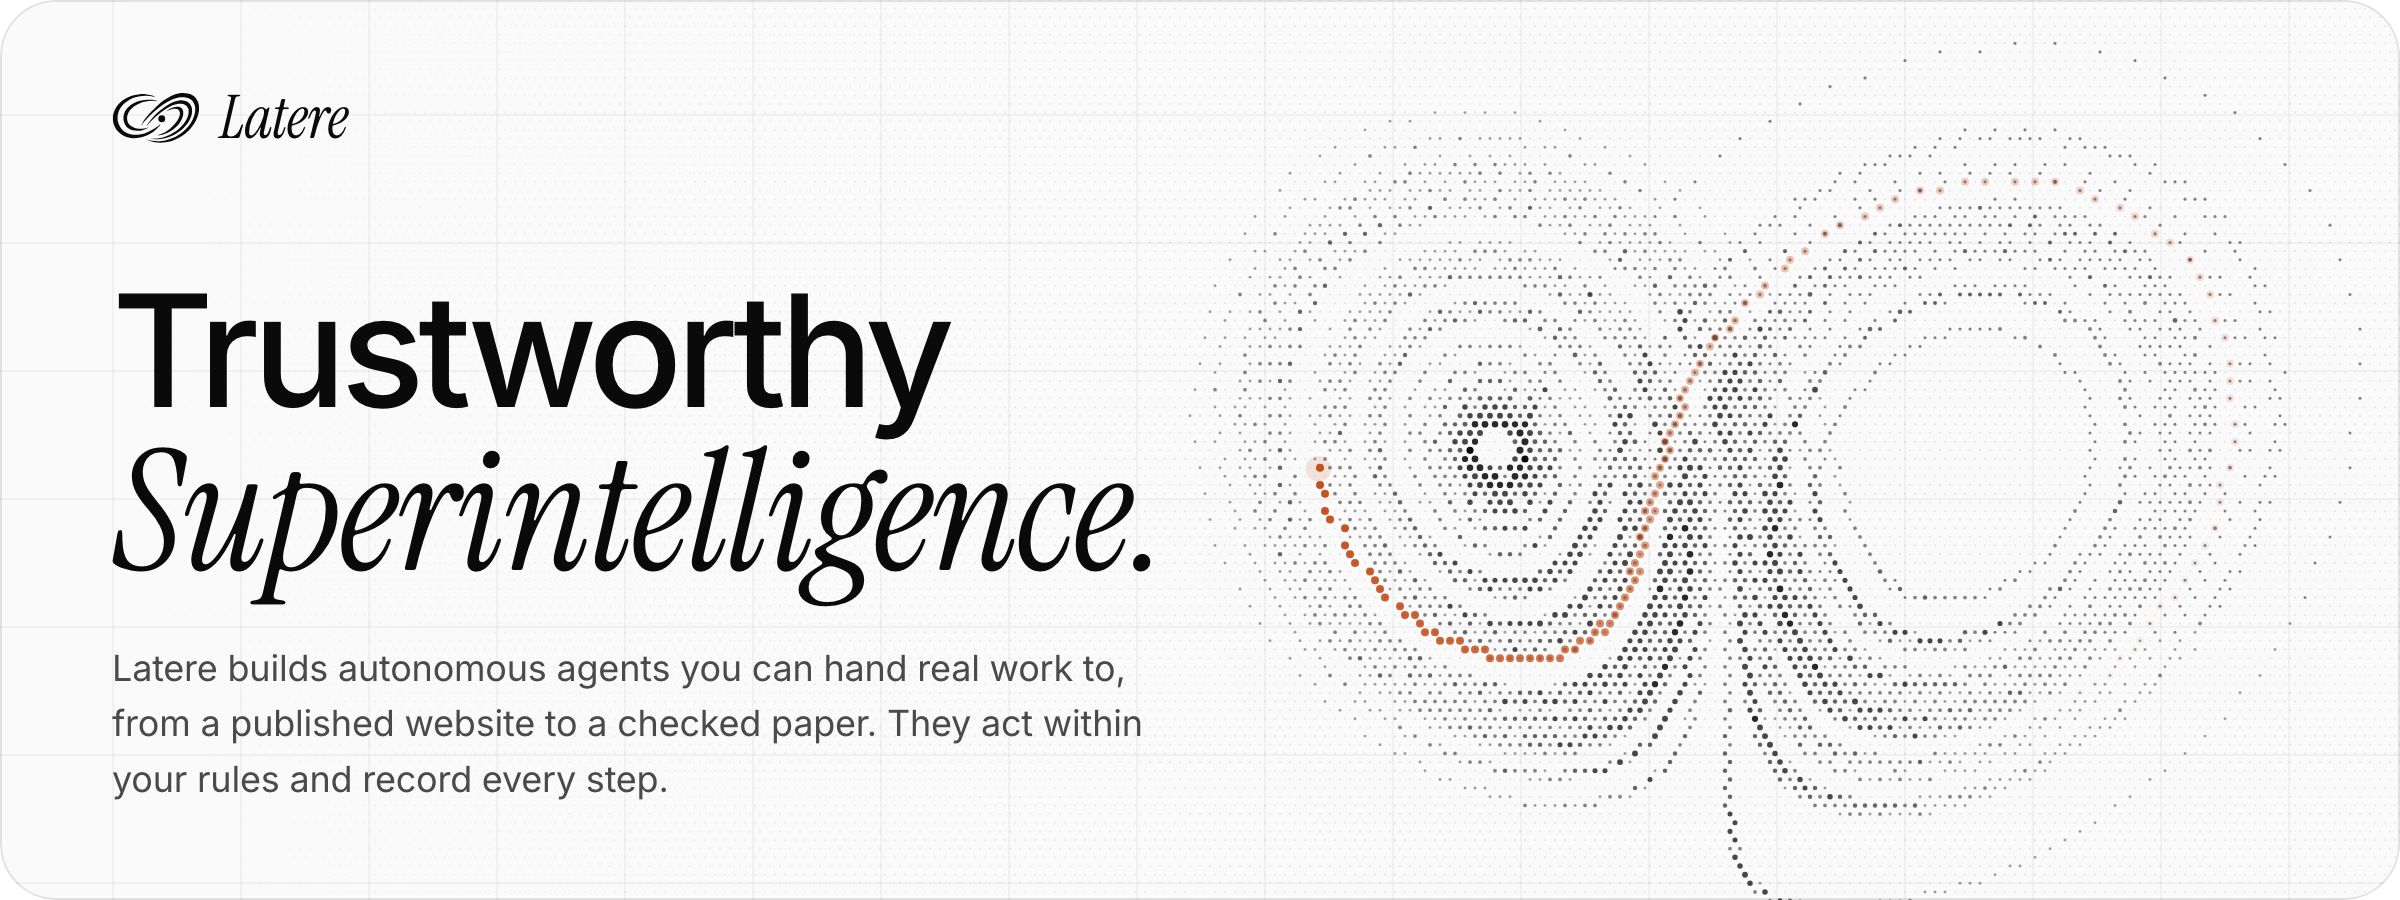
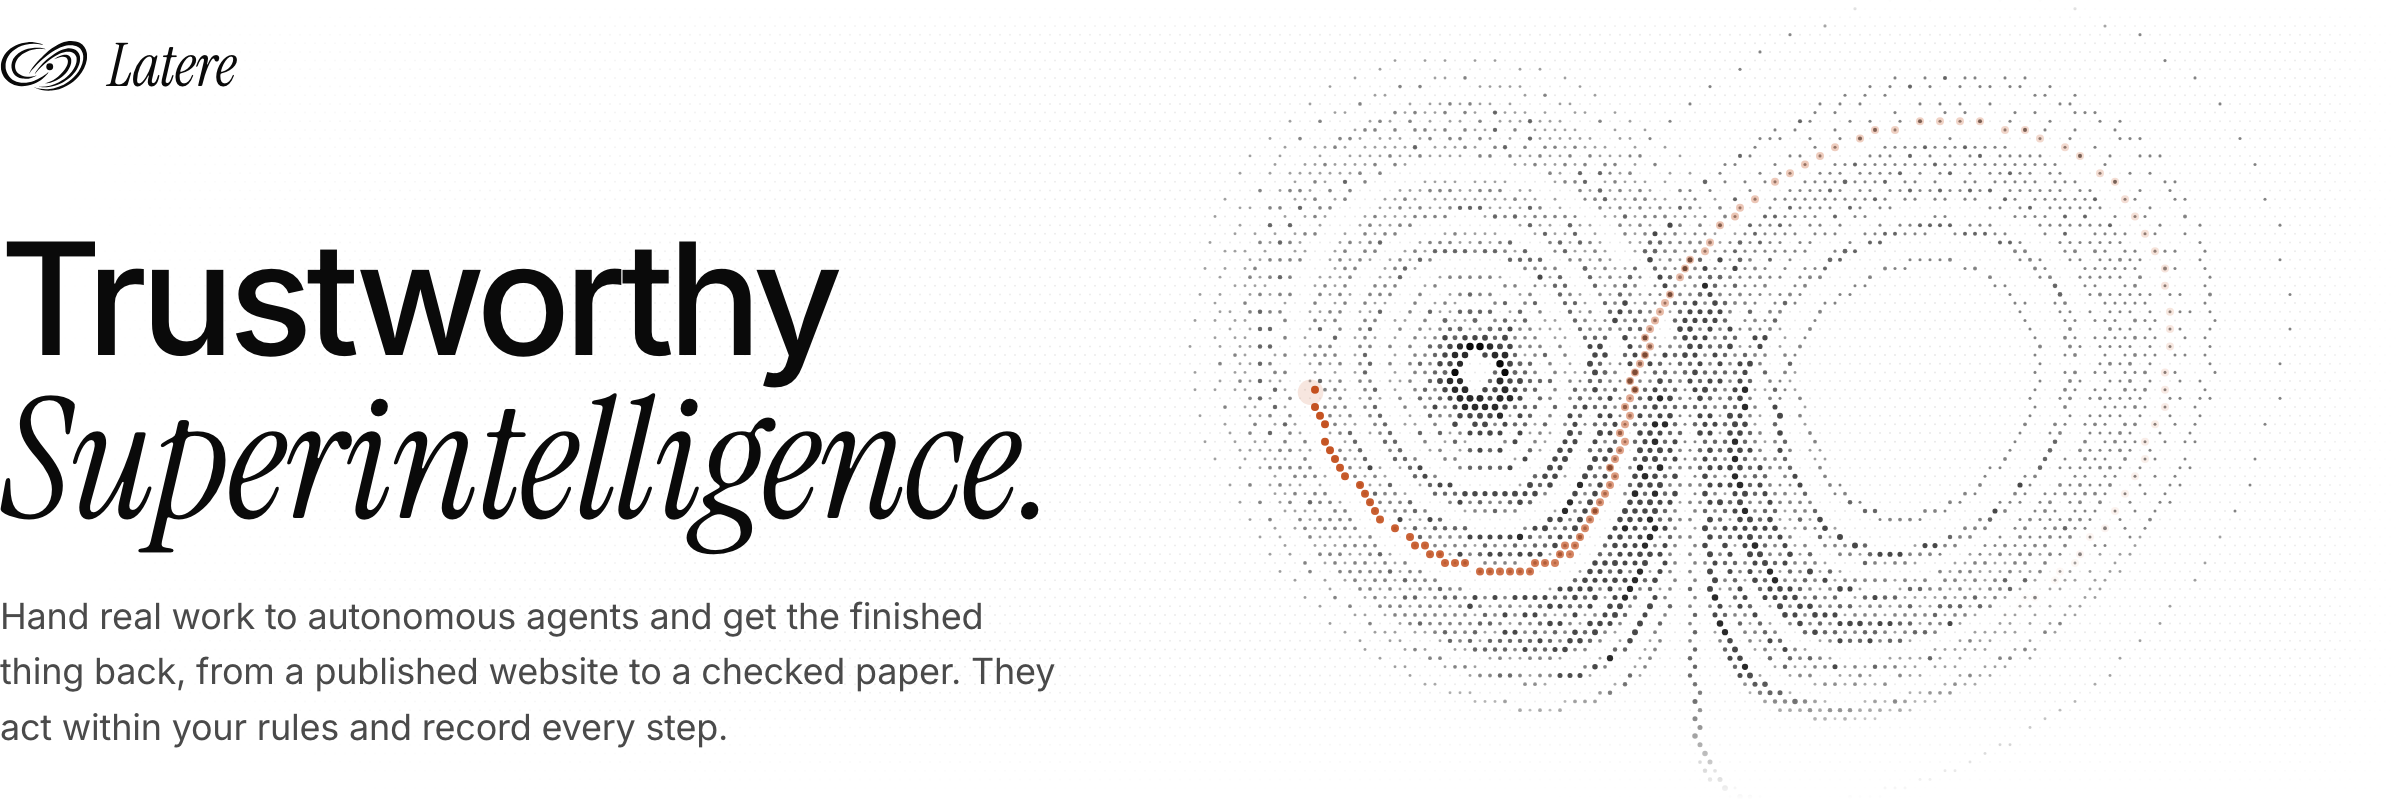
profile: the teaser has no frame and starts on the text's left edge, carries the site's new opening sentence, and stands in for the heading

diff --git a/profile/assets/teaser/teaser.html b/profile/assets/teaser/teaser.html
@@ -5,13 +5,17 @@ The source of the organization profile's teaser, ../teaser-light.png and
 Lorenz attractor, the figure behind the Latere mark, drawn as a field of dots
 with one point in the accent color traveling it.
 
-The page is 1200 by 450 CSS pixels and takes its theme from ?theme=light or
+The teaser has no frame and no ground of its own: its text starts on the
+image's left edge, so it lines up with the text of the page it sits in, and
+the page shows through everywhere else.
+
+The page is 1200 by 400 CSS pixels and takes its theme from ?theme=light or
 ?theme=dark. Render both at twice that size with a chrome-headless-shell
 binary (Playwright installs one), from this directory:
 
   for t in light dark; do
     chrome-headless-shell --screenshot="$PWD/../teaser-$t.png" \
-      --window-size=1200,450 --force-device-scale-factor=2 --hide-scrollbars \
+      --window-size=1200,400 --force-device-scale-factor=2 --hide-scrollbars \
       --default-background-color=00000000 --virtual-time-budget=5000 \
       "file://$PWD/teaser.html?theme=$t"
   done
@@ -30,55 +34,42 @@ Open Font License 1.1 (LICENSE-Inter.txt, LICENSE-Instrument-Serif.txt).
 @font-face { font-family: 'Instrument Serif'; font-style: italic; src: url(instrument-serif-italic-latin.woff2) format('woff2'); }
 
 :root {
-  --bg: #fafafa;
   --text: #0a0a0a;
   --lede: #4a4a4a;
-  --edge: rgba(0, 0, 0, .10);
-  --grid: rgba(0, 0, 0, .035);
   --signal: #c4511f;
 }
 :root[data-theme="dark"] {
-  --bg: #09090b;
   --text: #fafafa;
   --lede: #a1a1aa;
-  --edge: rgba(255, 255, 255, .14);
-  --grid: rgba(255, 255, 255, .025);
   --signal: #e54d2e;
 }
 
 * { box-sizing: border-box; margin: 0; }
-html, body { width: 1200px; height: 450px; overflow: hidden; background: transparent; }
+html, body { width: 1200px; height: 400px; overflow: hidden; background: transparent; }
 body { font-family: Inter, sans-serif; -webkit-font-smoothing: antialiased; color: var(--text); }
 
-/* The sheet: the site's ground and its page grid, with corners that leave
-   the page behind it showing, so one image sits on any GitHub theme. */
-.sheet {
-  position: relative;
-  width: 100%; height: 100%;
-  overflow: hidden;
-  border-radius: 28px;
-  background:
-    linear-gradient(var(--grid) 1px, transparent 1px) 0 -7px / 64px 64px,
-    linear-gradient(90deg, var(--grid) 1px, transparent 1px) -8px 0 / 64px 64px,
-    var(--bg);
-}
-.sheet::after {
-  content: '';
-  position: absolute; inset: 0;
-  border: 1px solid var(--edge);
-  border-radius: inherit;
-}
+.stage { position: relative; width: 100%; height: 100%; overflow: hidden; }
 
-/* The figure fills the sheet beneath the text; its center sits in the right
-   half, clear of the headline. */
-.field { position: absolute; inset: 0; width: 100%; height: 100%; color: var(--text); }
+/* The figure fills the image beneath the text; its center sits in the right
+   half, clear of the headline. It fades out toward the top, the bottom and
+   the right, so no dot is cut off at the image's edge. */
+.field {
+  position: absolute; inset: 0; width: 100%; height: 100%; color: var(--text);
+  -webkit-mask-image:
+    linear-gradient(to bottom, transparent, #000 18px, #000 calc(100% - 64px), transparent),
+    linear-gradient(to right, #000 calc(100% - 40px), transparent);
+  -webkit-mask-composite: source-in;
+  mask-composite: intersect;
+}
 
 .copy {
   position: relative;
   display: grid;
   grid-template-rows: auto 1fr;
   height: 100%;
-  padding: 44px 56px 46px;
+  /* No padding on the left: the mark, the headline and the sentences start
+     on the image's edge. */
+  padding: 18px 0 22px;
 }
 .brand { display: flex; align-items: center; gap: 10px; }
 .brand svg { width: 44px; height: auto; }
@@ -96,13 +87,13 @@ p {
 </style>
 </head>
 <body>
-<div class="sheet">
+<div class="stage">
   <canvas class="field" aria-hidden="true"></canvas>
   <div class="copy">
     <div class="brand"><svg aria-hidden="true" xmlns="http://www.w3.org/2000/svg" viewBox="139.68 271.24 750.69 440.74"><g fill="currentColor"><path d="M728.1 280.1C701.8 282.6 670.6 292.5 639.8 308.1C601.3 327.7 563.4 354.4 526.5 388C510.2 402.8 469 444.2 456.3 458.4C424.8 493.7 402.4 525.4 392.5 548.9C390.6 553.4 389 557.6 389 558.2C389 558.8 391.2 555.9 393.8 551.9C410.6 526.3 460.3 472.9 498 439.9C561.8 384.2 622.4 345.2 671.5 328.4C701.9 317.9 722.1 314.5 747.5 315.3C765 315.9 771.4 317 786 321.6C796.3 324.8 800.4 326.8 809.8 333.3C832.3 348.8 846.9 376.1 850 408.4C853.5 446.2 837.8 496.9 809.5 539.5C788.6 570.9 756.4 603.6 723 627.7C672.5 664.1 610.6 686.5 548.3 691C528.7 692.4 506 691.1 483.5 687.4C466.9 684.6 445.4 679.3 437.1 676.1C428.9 672.8 429.8 674.4 438.6 678.8C477.3 698.1 529.5 707.1 579.5 703C667.3 695.7 753.5 649.9 813.6 578.5C848.4 537.2 872.5 487.1 880.6 439.5C882.9 425.9 883 396.1 880.7 382.9C873.9 343.6 852.7 313.1 820 295.7C795.6 282.7 761.5 276.9 728.1 280.1Z"/><path d="M379 289.7C359.1 291 338.7 294.2 324 298.1C250.2 318 196.1 359 166.2 417.8C158.9 432.1 154 446.3 150.3 463.5C147.9 475.3 147.6 478.4 147.7 496.5C147.7 514 148 518 150.3 528.6C156.2 556.5 168 581.1 185.6 602C218.1 640.8 265 662.9 320.4 665.7C351.7 667.2 396.7 658.5 430 644.5C456.2 633.5 482.9 617.8 503 601.7C512.9 593.7 531.6 575.4 539.5 566C545.2 559.2 555 545 555 543.6C555 543.2 550.7 546.8 545.4 551.4C516.8 576.5 466.5 606.8 432.5 619.3C369.6 642.5 309.1 642.4 262.7 619C250 612.6 241.6 606.7 231.6 597.1C209.9 576.1 195.9 551.1 189.4 521C187.9 514.2 187.5 508.3 187.5 492C187.5 473.4 187.8 470.5 190.2 460.5C207.3 388.6 269 333.4 356 312.1C404.8 300.2 450.8 300 498.4 311.5C503.9 312.8 508.6 313.8 508.7 313.6C509.3 313 490.3 305.1 481 302.1C453.6 293.2 408.2 287.6 379 289.7Z"/><path d="M435.5 336.6C392.4 339.8 359.8 348.5 327.4 365.4C282.1 389 252.6 421.6 241.4 460.5C232.7 490.8 237.3 527.6 252.8 552C269.8 578.9 295.9 595 331.5 600.7C345.5 602.9 375.3 602.1 390.4 599.1C404.5 596.2 419.3 591.4 430.6 585.8C439.9 581.2 451.5 574.2 450.9 573.5C450.7 573.4 446.5 574.6 441.5 576.2C419.7 583.6 391 587.2 370.6 585.2C343.8 582.5 325.7 576.6 306.5 564.3C270.1 540.8 258.1 496.1 277 454.4C297.7 408.6 348.8 371.9 415.5 355C459.9 343.7 496.2 342.3 528.5 350.7C529.8 351 530.2 350.9 529.5 350.2C526.2 347 498.8 340 481.5 338C471.5 336.9 443.3 336 435.5 336.6Z"/><path d="M711.5 343.1C665.2 350.1 619.6 373.4 560.5 420.6C508.7 461.9 461 514.4 440.2 553.4C437.8 557.7 436.1 561.6 436.2 562.1C436.4 562.5 440 558.5 444.2 553.2C469.8 520.9 509.8 482.2 548 452.4C607.6 405.9 661.9 378.1 704.8 371.9C716.6 370.2 736.5 371.2 746 374C768.5 380.4 783.8 394.6 790.6 415.2C793.1 422.7 793.4 425 793.4 438C793.4 448.5 792.9 454.9 791.6 461C783.6 497.8 763.5 531.9 728.5 567.9C702.7 594.4 675 614.7 642 631.1C588.9 657.5 542.9 668.9 488.1 669.1C467.1 669.1 466.8 670 486.8 672.7C503.6 674.9 536.8 674.9 554.3 672.6C587.6 668.3 625.2 657.4 657 642.7C673.9 635 697.7 620.7 714 608.7C770.6 566.9 808.1 514 820.5 458.5C823 447.3 823.6 421.3 821.5 410.5C815.5 378.8 796 356.2 766.6 347.1C751.4 342.4 727.7 340.7 711.5 343.1Z"/><path d="M677 399.9C657.1 404.2 634.5 414 614.7 427C608.7 431 604 434.4 604.3 434.6C604.5 434.8 608.5 433.2 613.1 431.1C625.3 425.4 646.5 418.4 658.6 416C692 409.6 713 419.2 718.1 443.3C720 452.1 718.7 467.1 715.1 477.9C711.1 489.7 701.8 508 693.3 520.7C673.5 550.4 643.2 580.5 611.5 601.8C585.1 619.5 564.5 629 527 640.9C521.1 642.7 539.7 641.4 553 639C575.6 634.9 596.2 627.6 622.3 614.3C687 581.3 732.8 528.4 745.6 471.9C746.8 466.9 747.3 459.9 747.4 450.5C747.4 438.4 747.1 435.6 745.1 430C739.7 414.5 729.7 404.7 714.6 400.1C705.8 397.4 689.3 397.3 677 399.9Z"/><circle cx="564" cy="499.2" r="29.4"/></g></svg><span>Latere</span></div>
     <div class="hero">
       <h1>Trustworthy<em>Superintelligence.</em></h1>
-      <p>Latere builds autonomous agents you can hand real work to, from a published website to a checked paper. They act within your rules and record every step.</p>
+      <p>Hand real work to autonomous agents and get the finished thing back, from a published website to a checked paper. They act within your rules and record every step.</p>
     </div>
   </div>
 </div>
@@ -123,9 +114,9 @@ const CAMERA = 7;                        // camera distance, in figure radii
 const COUNT = 8000;                      // points on the trajectory
 const TRAIL = 150;                       // points the accent trails
 const YAW = Math.PI / 4 + 0.3, PITCH = 0.14;
-// The figure's radius as a share of the sheet's height, and its center as
+// The figure's radius as a share of the image's height, and its center as
 // shares of the width and the height.
-const FILL = 0.72, CX = 0.74, CY = 0.53;
+const FILL = 0.76, CX = 0.725, CY = 0.5;
 
 function trajectory(count, dt = 0.005, transient = 2000) {
   const sigma = 10, rho = 28, beta = 8 / 3;

diff --git a/tests/test_profile.py b/tests/test_profile.py
@@ -2,14 +2,60 @@
 
 from pathlib import Path
 import re
+import struct
 import unittest
+import zlib
 
 
 ROOT = Path(__file__).resolve().parents[1]
 PROFILE = ROOT / "profile" / "README.md"
-TEASER = ROOT / "profile" / "assets" / "teaser" / "teaser.html"
+ASSETS = ROOT / "profile" / "assets"
+TEASER = ASSETS / "teaser" / "teaser.html"
 # The profile is shown outside this repository, so its images are absolute.
 RAW = "https://raw.githubusercontent.com/latere-ai/.github/main/"
+
+
+def left_columns(path, columns):
+    """Size of an 8-bit RGBA PNG and the first `columns` pixels of each row.
+
+    A filtered byte depends only on the bytes to its left and above it, so the
+    left edge of the image is read without undoing the rest of each row.
+    """
+    data = path.read_bytes()
+    pos, idat, width, height = 8, [], 0, 0
+    while pos < len(data):
+        length, kind = struct.unpack(">I4s", data[pos:pos + 8])
+        body = data[pos + 8:pos + 8 + length]
+        if kind == b"IHDR":
+            width, height, depth, color, _, _, interlace = struct.unpack(">IIBBBBB", body)
+            if (depth, color, interlace) != (8, 6, 0):
+                raise ValueError(f"{path.name}: not an 8-bit RGBA PNG")
+        elif kind == b"IDAT":
+            idat.append(body)
+        pos += 12 + length
+    raw = zlib.decompress(b"".join(idat))
+    stride, n = 1 + width * 4, columns * 4
+    rows, above = [], bytearray(n)
+    for y in range(height):
+        kind = raw[y * stride]
+        line = bytearray(raw[y * stride + 1:y * stride + 1 + n])
+        for i in range(n):
+            left = line[i - 4] if i >= 4 else 0
+            up = above[i]
+            corner = above[i - 4] if i >= 4 else 0
+            if kind == 1:
+                line[i] = (line[i] + left) & 255
+            elif kind == 2:
+                line[i] = (line[i] + up) & 255
+            elif kind == 3:
+                line[i] = (line[i] + (left + up) // 2) & 255
+            elif kind == 4:
+                p = left + up - corner
+                pl, pu, pc = abs(p - left), abs(p - up), abs(p - corner)
+                line[i] = (line[i] + (left if pl <= pu and pl <= pc else up if pu <= pc else corner)) & 255
+        rows.append(line)
+        above = line
+    return width, height, rows
 
 
 class ProfileLinksTest(unittest.TestCase):
@@ -45,6 +91,22 @@ class ProfileTeaserTest(unittest.TestCase):
         headline = re.sub(r"<[^>]+>", " ", re.search(r"<h1>(.*?)</h1>", teaser).group(1))
         self.assertIn(" ".join(headline.split()), alt)
         self.assertIn(re.search(r"<p>(.*?)</p>", teaser).group(1), alt)
+
+    def test_teaser_text_starts_on_the_image_edge(self):
+        # The teaser has no frame: its mark, headline and sentences start on
+        # the image's left edge, where the README's own text starts. The
+        # images are twice the layout size, so 6 pixels are 3 in the layout.
+        columns = 16
+        for theme in ("light", "dark"):
+            with self.subTest(theme=theme):
+                width, height, rows = left_columns(ASSETS / f"teaser-{theme}.png", columns)
+                self.assertEqual((width, height), (2400, 800))
+                ink = [x for row in rows for x in range(columns) if row[x * 4 + 3] >= 128]
+                self.assertTrue(ink, "no text near the left edge")
+                self.assertLessEqual(min(ink), 6)
+                # A frame would draw a line down the first column.
+                lined = sum(1 for row in rows if row[3] >= 24)
+                self.assertLess(lined, height // 4)
 
 
 if __name__ == "__main__":

diff --git a/profile/README.md b/profile/README.md
@@ -1,8 +1,6 @@
-# Latere
-
 <picture>
   <source media="(prefers-color-scheme: dark)" srcset="https://raw.githubusercontent.com/latere-ai/.github/main/profile/assets/teaser-dark.png">
-  <img src="https://raw.githubusercontent.com/latere-ai/.github/main/profile/assets/teaser-light.png" alt="Latere: Trustworthy Superintelligence. Latere builds autonomous agents you can hand real work to, from a published website to a checked paper. They act within your rules and record every step." width="100%">
+  <img src="https://raw.githubusercontent.com/latere-ai/.github/main/profile/assets/teaser-light.png" alt="Latere: Trustworthy Superintelligence. Hand real work to autonomous agents and get the finished thing back, from a published website to a checked paper. They act within your rules and record every step." width="100%">
 </picture>
 
 Put Latere's agents to work through our applications, build your own on the Latere Platform, or run the open source cores behind it on your own infrastructure.
